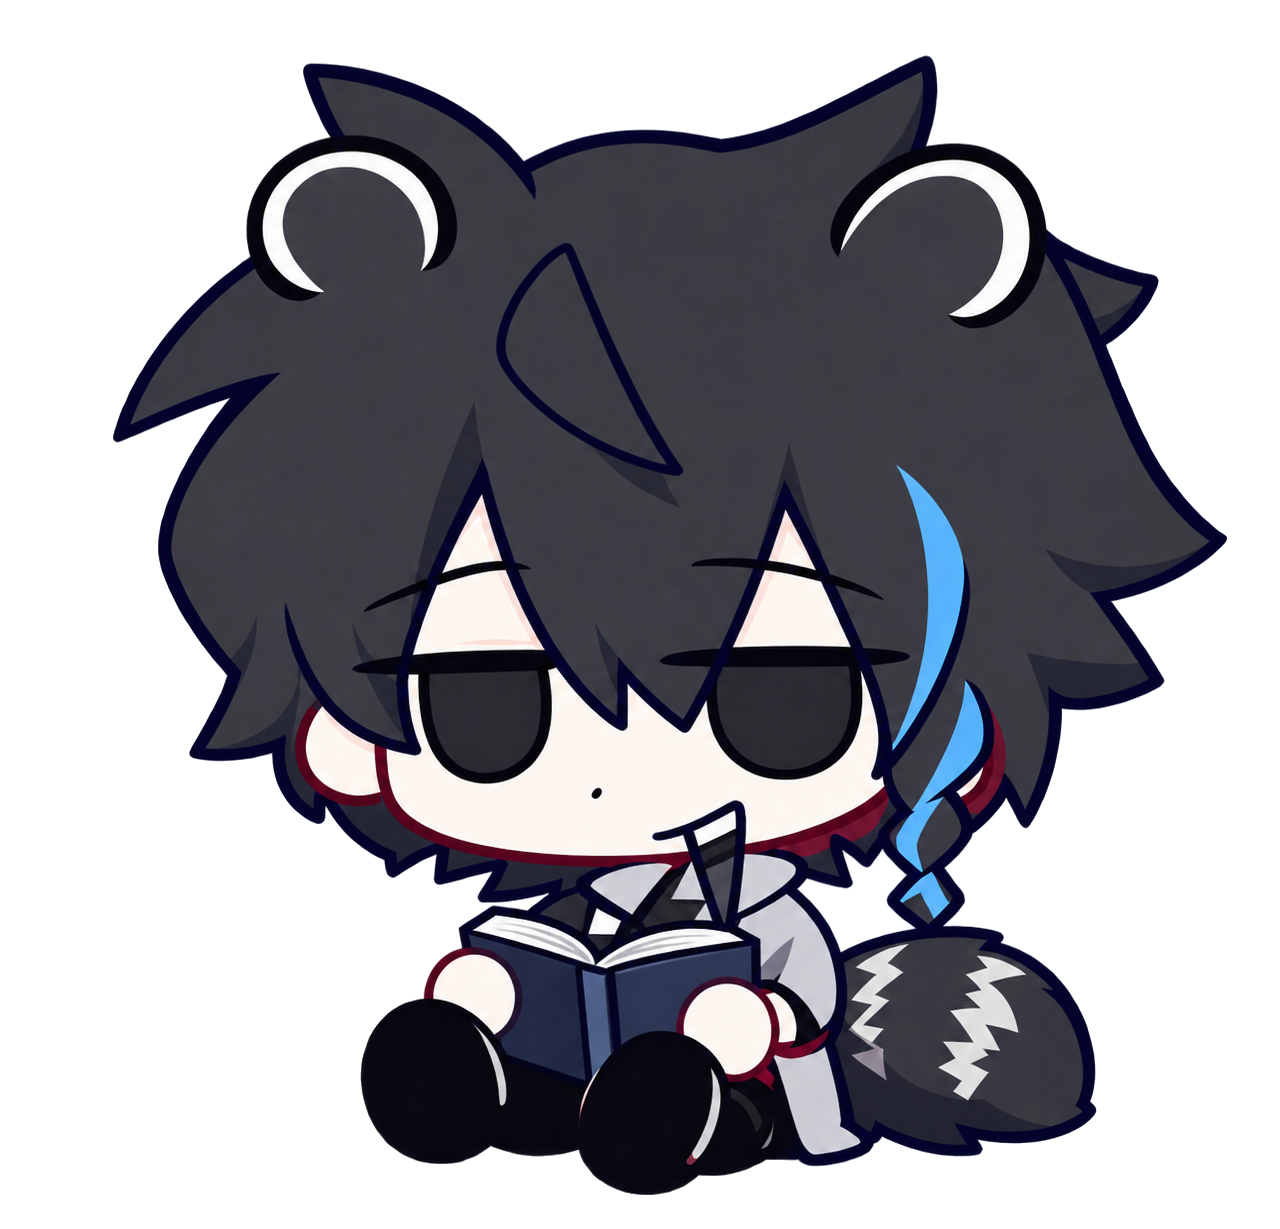
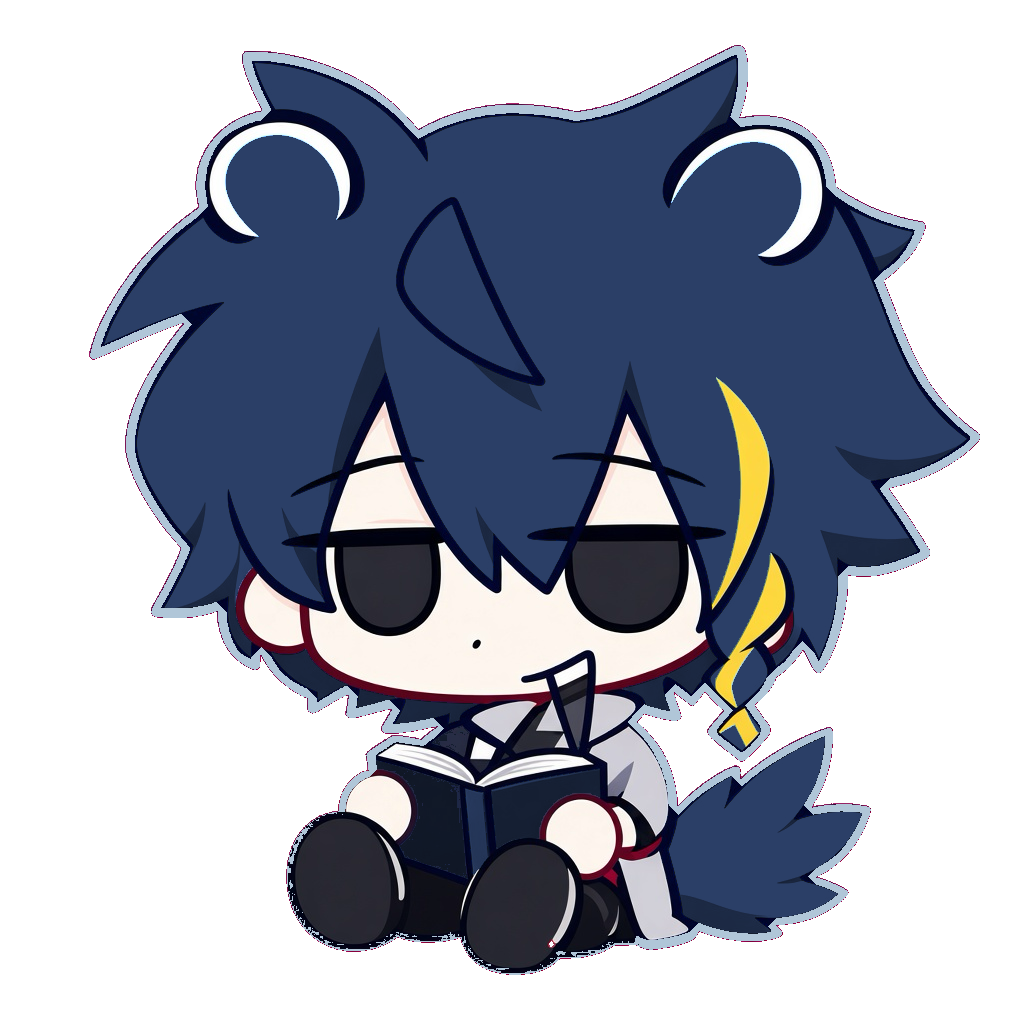
Replace the default character and credit it as an adaptation of 初风y不行's Q-version design.

diff --git a/README.md b/README.md
@@ -28,8 +28,7 @@ cd MacPet
 | 路径 | 说明 |
 |---|---|
 | `MacBook_桌面宠物开发文档_v1.0.md` | 产品与技术规格 |
-| `ChatGPT Image Sep 10, 2026, 07_10_40 PM.png` | 角色原图 |
-| `MacPet/` | Swift 源码、角色透明 PNG、构建脚本 |
+| `MacPet/` | Swift 源码、默认立绘、构建脚本 |
 
 当前专注由 MacPet 自己记录。右键可开始/停止专注、完成一个番茄、喂番茄、调整大小与眼睛高光。
 
@@ -37,4 +36,4 @@ cd MacPet
 
 本项目仅供**个人、非商业使用**，禁止商用。详见 [LICENSE](LICENSE)。
 
-默认宠物形象来自哔哩哔哩短片 UP 主 [初风y不行](https://space.bilibili.com/651923923/)，权利归原作者，使用时须保留署名。
+默认宠物形象根据哔哩哔哩 UP 主 [初风y不行](https://space.bilibili.com/651923923/) 的 Q 版形象改编，使用时须保留署名。
